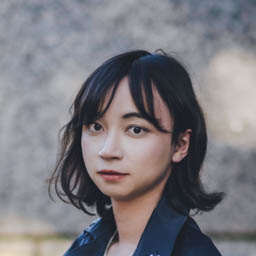
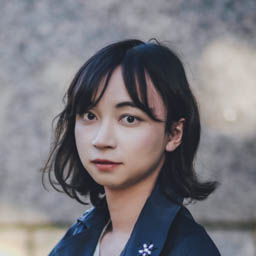
[master] rollback

diff --git a/index.html b/index.html
@@ -129,7 +129,7 @@ a:hover{color:#566c7f}
         <div id="main-content-container" class="container">
           <div class="row">
             <div class="col-sm-12 col-md-3 col-avatar">
-                <img src="static/img/avatar7.jpg" class="avatar" class="" />
+                <img src="static/img/avatar4.jpg" class="avatar" class="" />
             </div>
             <div class="col-sm-12 col-md-9 col-info">
                 <div id="main-info-container" class="container">
@@ -506,8 +506,8 @@ a:hover{color:#566c7f}
                     <!--p style="font-size:12px">Background photo: Rainbow Bridge (レインボーブリッジ) @ Tokyo, Japan, 2016</p-->
                     <!--Background photo: 798 Art Zone, Beijing, China. 2019, by <a href="https://www.instagram.com/42x00/">42x00</a>.<br />-->
                     Background photo: Solvang, CA, USA. 2017.<br />
-                    Avatar photo: Hynes Convention Center, Boston, MA. 2019, by <a href="https://www.instagram.com/42x00/">42x00</a>.
-                    <!--Avatar photo: MIT, Cambridge, MA, USA. 2018, by <a href="http://linji.me/">Ji Lin</a>.-->
+                    <!--Avatar photo: Hynes Convention Center, Boston, MA. 2019, by <a href="https://www.instagram.com/42x00/">42x00</a>.-->
+                    Avatar photo: MIT, Cambridge, MA, USA. 2018, by <a href="http://linji.me/">Ji Lin</a>.
                 </div>
             </div>
         </div>
